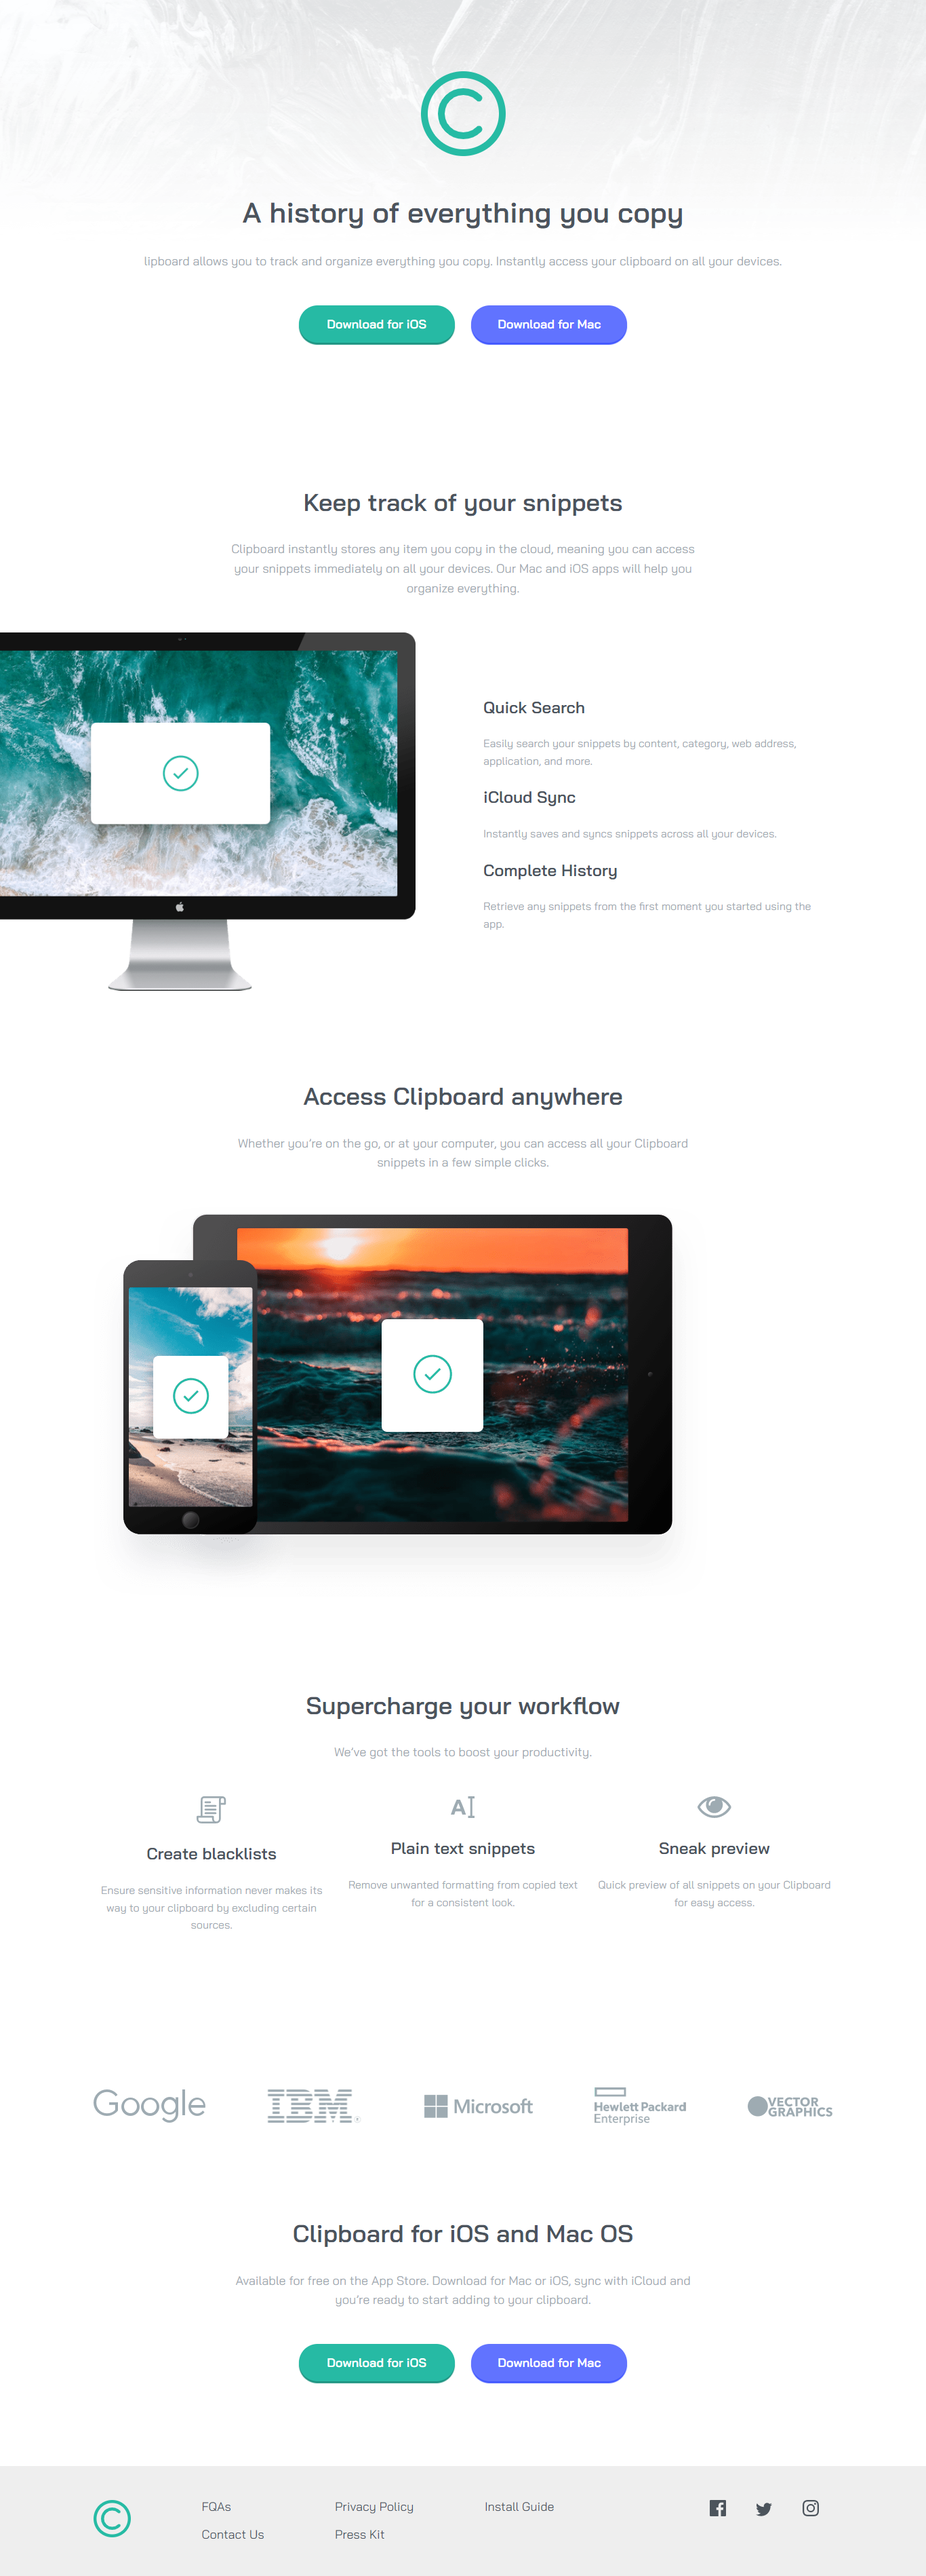
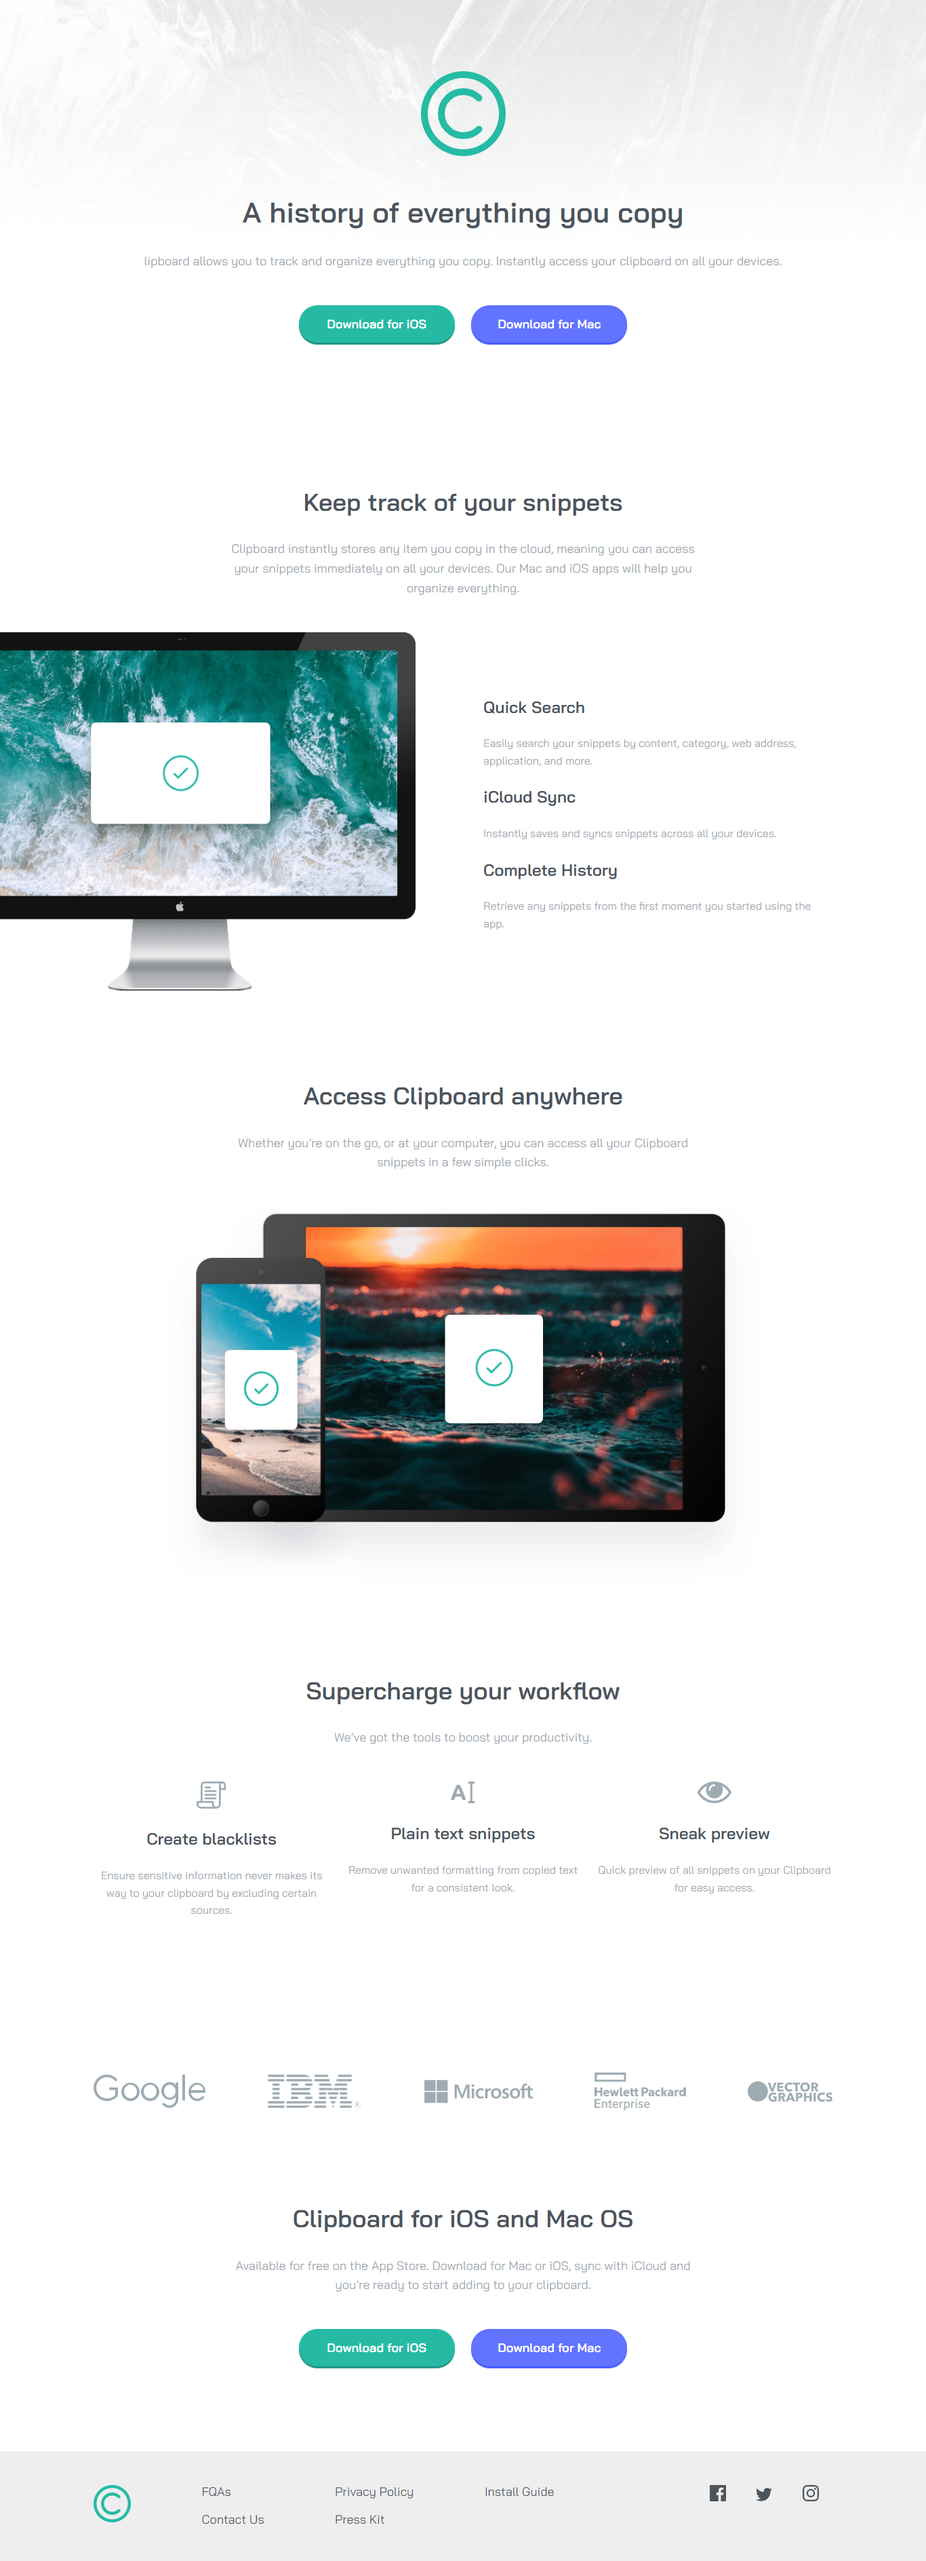
fix devices image alignment

diff --git a/css/style.css b/css/style.css
@@ -252,9 +252,21 @@ p {
 /* Features */
 
 /* Devices */
+.devices .col {
+  width: 100%;
+  text-align: center;
+}
+
 .devices .col img {
   width: 100%;
 }
+
+@media (min-width: 992px) {
+  .devices .col img {
+    width: 80%;
+  }
+}
+
 /* Devices */
 
 /* Workflow */
